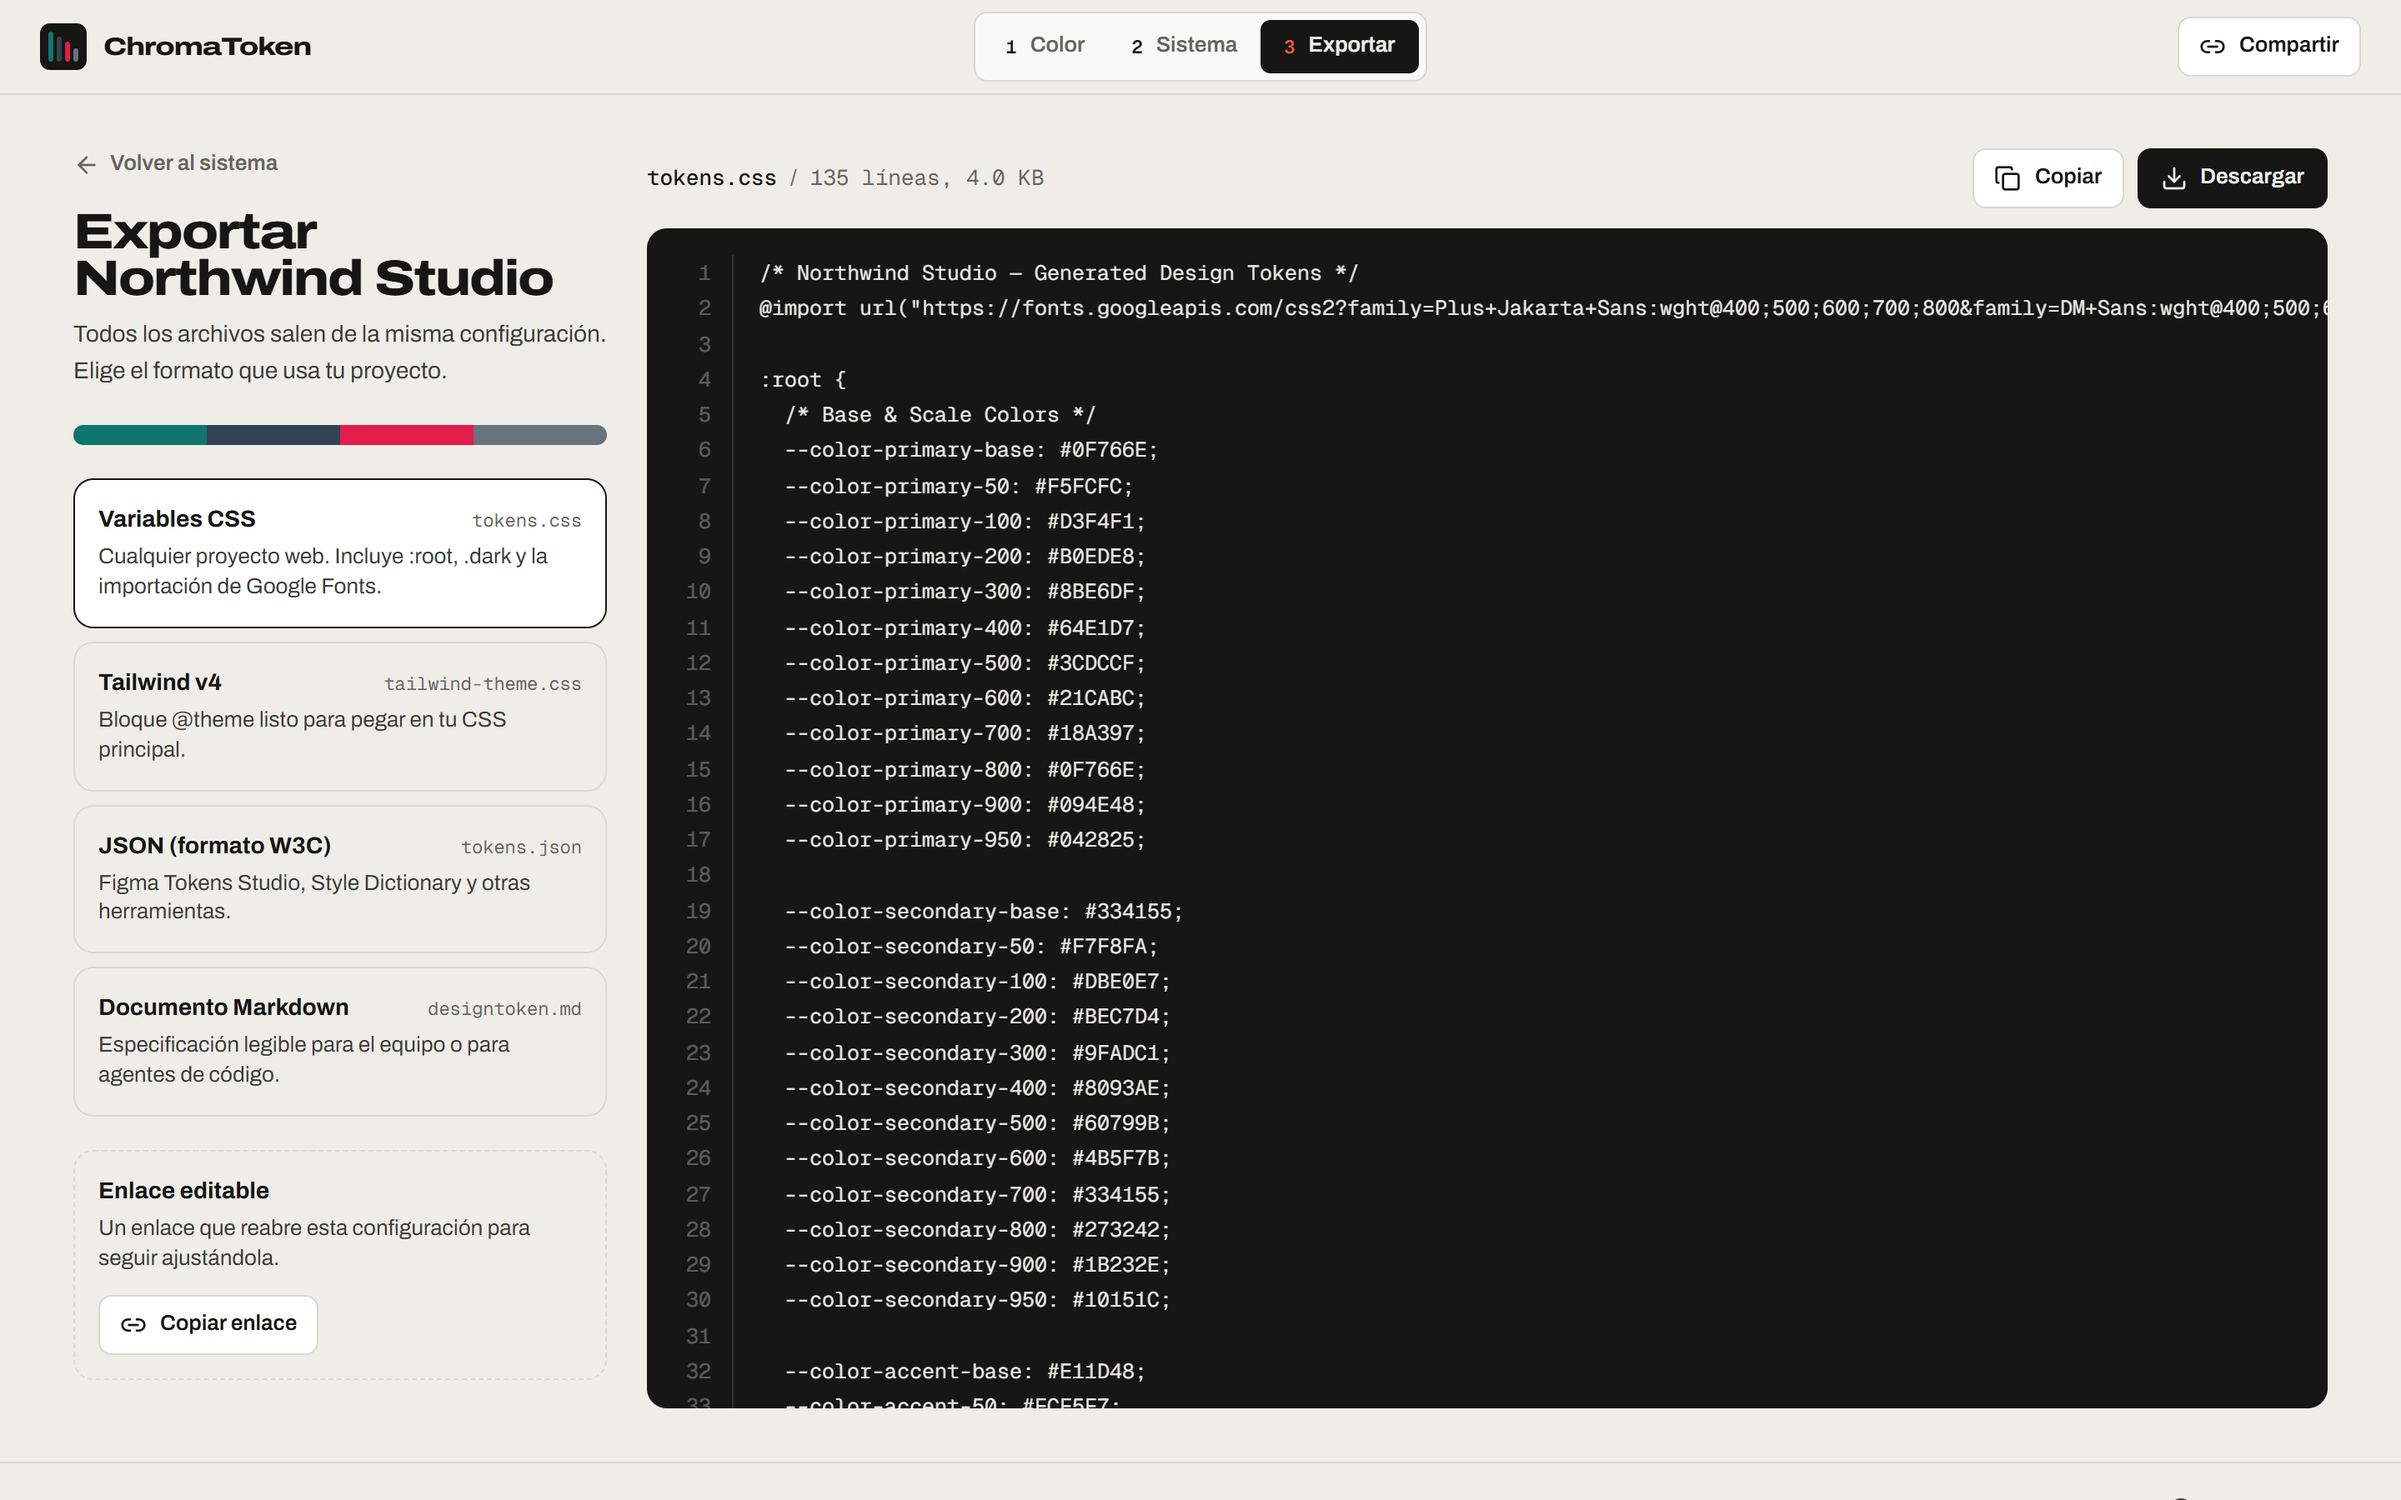
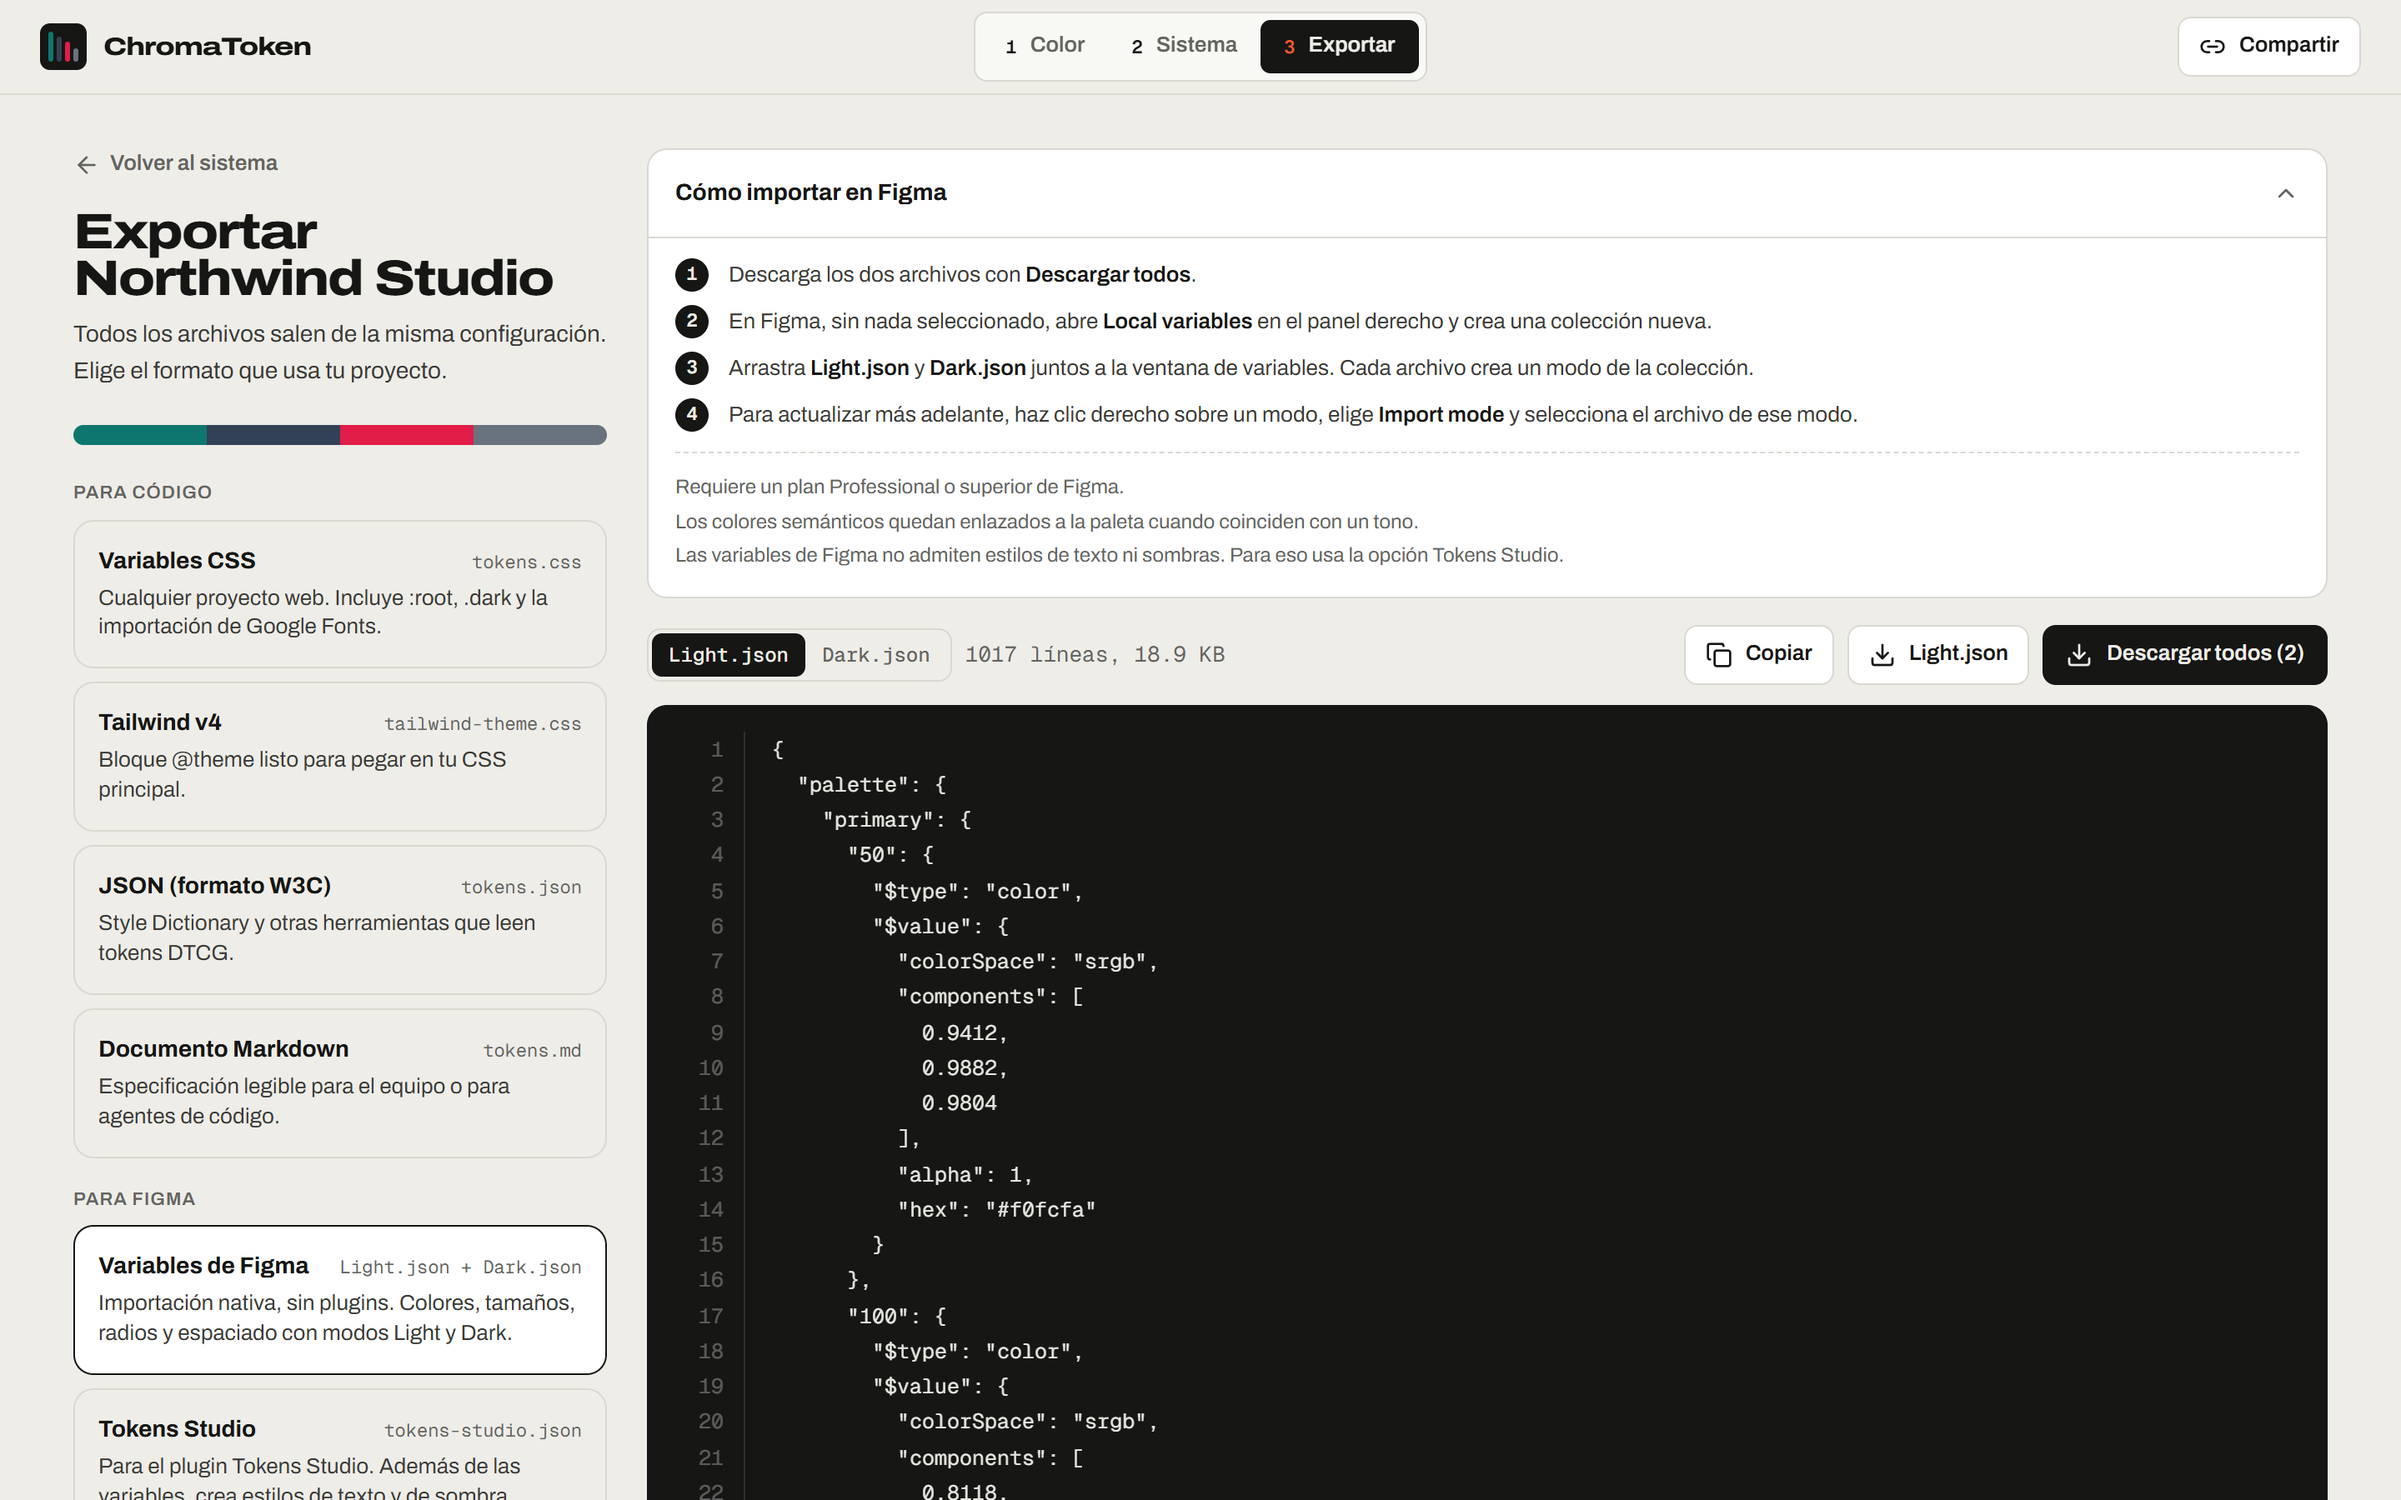
chore: mention Figma in SEO copy and remove competitor references
- SEO, Open Graph, Twitter and JSON-LD descriptions now list Figma
  export; og-image gains a Figma chip and updated subtitle.
- Rename the Markdown export from designtoken.md to tokens.md.
- Drop Coolors mentions from the UI/UX redesign doc.
- Refresh the export panel screenshot with the Figma formats.

diff --git a/index.html b/index.html
@@ -10,7 +10,7 @@
     <title>ChromaToken · De una paleta a un sistema de diseño</title>
     <meta
       name="description"
-      content="Genera paletas en OKLCH, valida el contraste WCAG en claro y oscuro, define tipografía y forma, y exporta tus design tokens a CSS, Tailwind v4, JSON y Markdown."
+      content="Genera paletas en OKLCH, valida el contraste WCAG en claro y oscuro, define tipografía y forma, y exporta tus design tokens a CSS, Tailwind v4, JSON, Markdown y Figma."
     />
     <meta name="author" content="guillermo259, lorspi" />
     <meta name="application-name" content="ChromaToken" />
@@ -25,7 +25,7 @@
     <meta property="og:title" content="ChromaToken · De una paleta a un sistema de diseño" />
     <meta
       property="og:description"
-      content="Genera colores en OKLCH, valida el contraste en claro y oscuro, y exporta tus design tokens a CSS, Tailwind v4, JSON y Markdown. Gratis y en el navegador."
+      content="Genera colores en OKLCH, valida el contraste en claro y oscuro, y exporta tus design tokens a CSS, Tailwind v4, JSON y Figma (variables nativas o Tokens Studio). Gratis y en el navegador."
     />
     <meta property="og:image" content="https://guillermo259.github.io/chromatoken/og-image.png" />
     <meta property="og:image:type" content="image/png" />
@@ -41,7 +41,7 @@
     <meta name="twitter:title" content="ChromaToken · De una paleta a un sistema de diseño" />
     <meta
       name="twitter:description"
-      content="Genera colores en OKLCH, valida el contraste y exporta tus design tokens a CSS, Tailwind v4, JSON y Markdown."
+      content="Genera colores en OKLCH, valida el contraste y exporta tus design tokens a CSS, Tailwind v4, JSON y Figma."
     />
     <meta name="twitter:image" content="https://guillermo259.github.io/chromatoken/og-image.png" />
     <meta
@@ -63,7 +63,7 @@
         "@type": "WebApplication",
         "name": "ChromaToken",
         "url": "https://guillermo259.github.io/chromatoken/",
-        "description": "Genera paletas en OKLCH, valida el contraste WCAG en claro y oscuro y exporta design tokens a CSS, Tailwind v4, JSON y Markdown.",
+        "description": "Genera paletas en OKLCH, valida el contraste WCAG en claro y oscuro y exporta design tokens a CSS, Tailwind v4, JSON, Markdown, variables de Figma y Tokens Studio.",
         "applicationCategory": "DesignApplication",
         "operatingSystem": "Web",
         "inLanguage": "es",

diff --git a/src/components/ExportPanel.tsx b/src/components/ExportPanel.tsx
@@ -70,10 +70,10 @@ const FORMATS: ExportFormat[] = [
   {
     id: 'markdown',
     group: 'code',
-    label: 'designtoken.md',
+    label: 'tokens.md',
     name: 'Documento Markdown',
     useFor: 'Especificación legible para el equipo o para agentes de código.',
-    build: single('designtoken.md', 'text/markdown', generateDesignTokenMd),
+    build: single('tokens.md', 'text/markdown', generateDesignTokenMd),
   },
   {
     id: 'figma',

diff --git a/src/utils/tokenExporters.ts b/src/utils/tokenExporters.ts
@@ -474,7 +474,7 @@ export function generateDesignTokenMd(state: DesignTokenState): string {
     state.typography.monoFont
   );
 
-  return `# ${state.brandName || 'Design System'} — designtoken.md
+  return `# ${state.brandName || 'Design System'} — tokens.md
 
 > Especificación de tokens de diseño lista para desarrollo web y agentes de código (nivel objetivo: WCAG 2.2 ${state.contrastLevel}).
 

diff --git a/docs/REDISENO-UI-UX.md b/docs/REDISENO-UI-UX.md
@@ -7,7 +7,7 @@ El cliente pidió dos cosas:
 1. Que la interfaz deje de parecer una copia de las herramientas en las que se inspiró.
 2. Que, al unir dos herramientas en una, la experiencia quede mejor que la de cada una por separado.
 
-Antes de este cambio, la pantalla de paleta replicaba casi pieza por pieza un generador de paletas conocido: columnas de color a sangre de borde a borde, el código HEX grande y centrado abajo, y los botones de bloquear, ajustar y copiar en el centro. Hasta la interfaz y los metadatos decían «Modo Coolors» y «al estilo Coolors». El resto de la app tenía el aspecto genérico de las plantillas SaaS: gris pizarra oscuro sobre blanco, Plus Jakarta Sans con DM Sans, etiquetas en mayúsculas por todas partes y secciones numeradas 01, 02, 03.
+Antes de este cambio, la pantalla de paleta seguía el patrón más repetido entre los generadores de paletas: columnas de color a sangre de borde a borde, el código HEX grande y centrado abajo, y los botones de bloquear, ajustar y copiar en el centro. El resto de la app tenía el aspecto genérico de las plantillas SaaS: gris pizarra oscuro sobre blanco, Plus Jakarta Sans con DM Sans, etiquetas en mayúsculas por todas partes y secciones numeradas 01, 02, 03.
 
 Además había problemas de uso:
 
@@ -106,7 +106,7 @@ Los tokens de la interfaz están definidos en `src/index.css` dentro de `@theme`
 
 | Archivo | Cambio |
 | --- | --- |
-| `src/components/PaletteBoard.tsx` | Nuevo. Reemplaza a `CoolorsGenerator.tsx`. |
+| `src/components/PaletteBoard.tsx` | Nuevo. Reemplaza al generador de paletas anterior. |
 | `src/components/ExportPanel.tsx` | Nuevo. Reemplaza a `ExportCodeView.tsx` y a las pestañas de código de `PreviewCanvas`. |
 | `src/components/Toast.tsx` | Nuevo. Avisos breves. |
 | `src/components/TopBar.tsx` | Indicador de pasos, isotipo en vivo y botón Compartir. |

diff --git a/README.md b/README.md
@@ -93,7 +93,7 @@ El texto necesita **4.5:1** en nivel AA y **7:1** en nivel AAA. Los elementos de
 ### 3 · Exportar
 
 <p align="center">
-  <img src="docs/assets/export.png" alt="Paso Exportar: lista de formatos y visor de código" width="100%">
+  <img src="docs/assets/export.png" alt="Paso Exportar: formatos para código y para Figma, guía de importación y visor de código" width="100%">
 </p>
 
 | Archivo | Para qué sirve |
@@ -101,7 +101,7 @@ El texto necesita **4.5:1** en nivel AA y **7:1** en nivel AAA. Los elementos de
 | `tokens.css` | Variables CSS con `:root`, `.dark` y la importación de Google Fonts |
 | `tailwind-theme.css` | Bloque `@theme` para Tailwind CSS v4 |
 | `tokens.json` | Formato W3C Design Tokens (Style Dictionary) |
-| `designtoken.md` | Especificación legible para el equipo o para agentes de código, con la tabla de contraste |
+| `tokens.md` | Especificación legible para el equipo o para agentes de código, con la tabla de contraste |
 | `Light.json` + `Dark.json` | Variables nativas de Figma con modos claro/oscuro y alias a la paleta |
 | `tokens-studio.json` | Paquete completo para Tokens Studio (variables, tipografías compuestas y sombras) |
 
